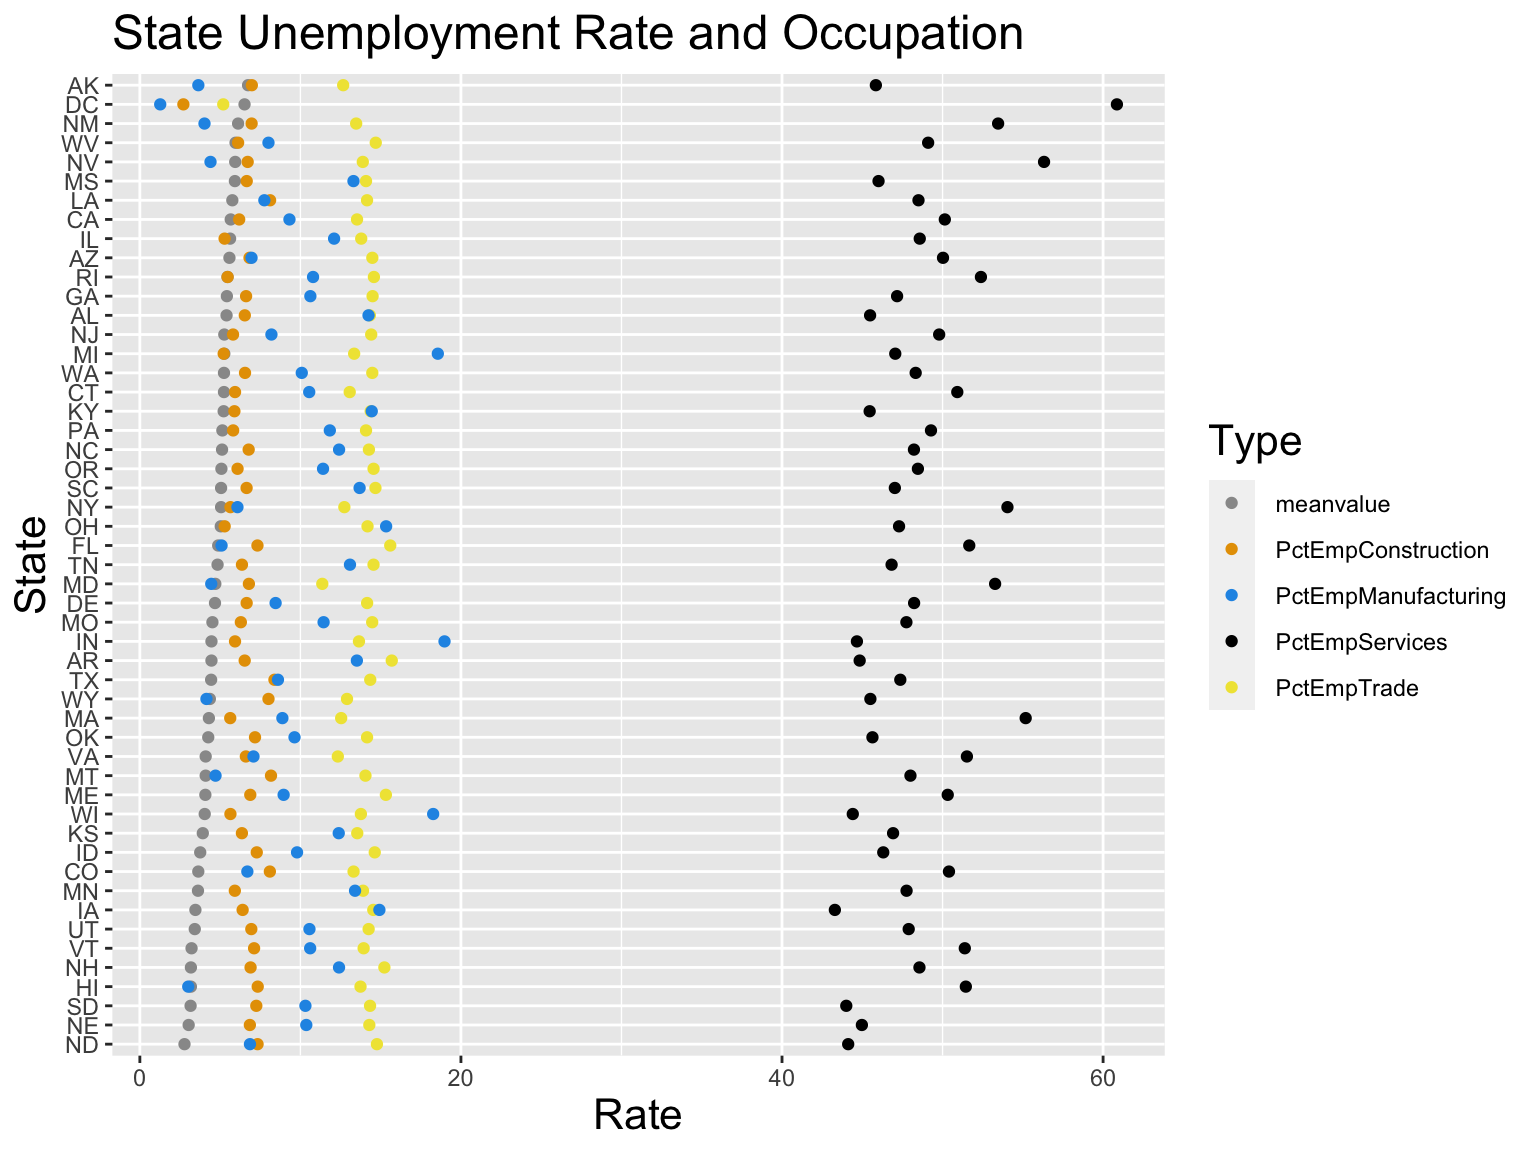
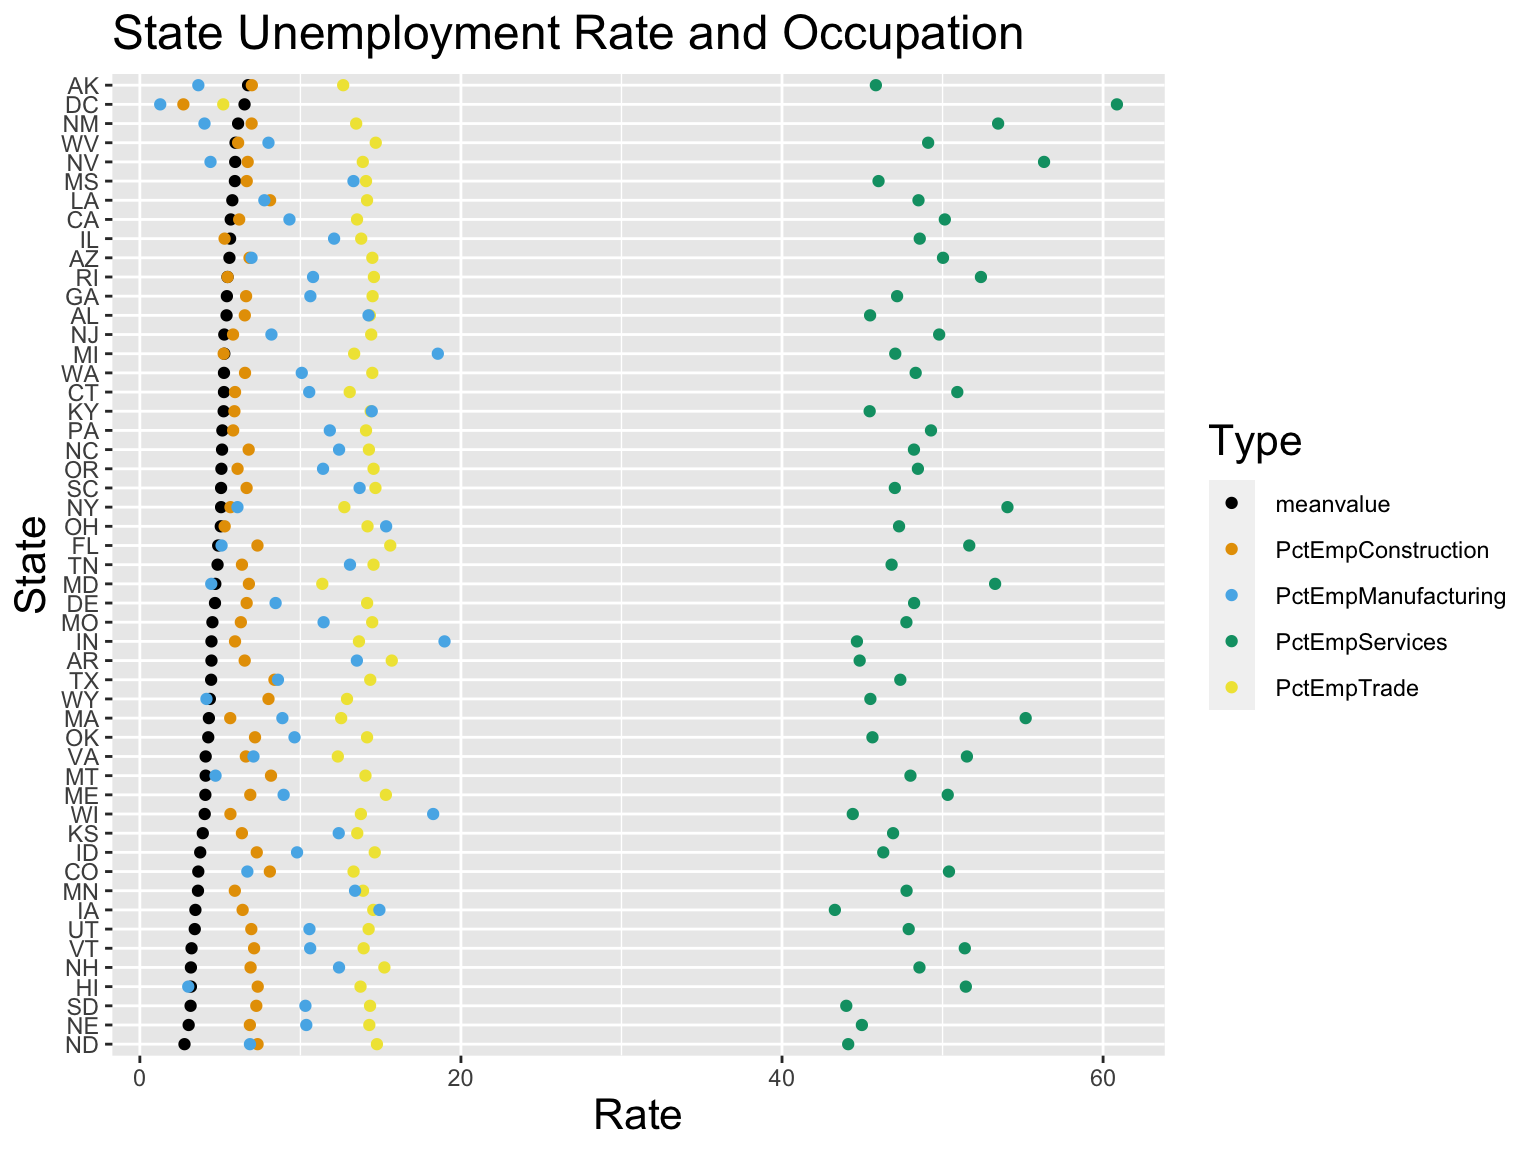
Changed color scale to colorblind friendly colors

diff --git a/docs/results.html b/docs/results.html
@@ -220,7 +220,7 @@ It is not very obvious as which part of the US has higher per capita income; how
 </div>
 <div id="dependency-relation-between-unemployment-rate-and-occupation-industries" class="section level3">
 <h3><span class="header-section-number">5.2.2</span> Dependency relation between Unemployment Rate and Occupation Industries</h3>
-<p><img src="finalproj_files/figure-html/unnamed-chunk-29-1.png" width="1152" /></p>
+<p><img src="finalproj_files/figure-html/unnamed-chunk-29-1.png" width="1344" /></p>
 <p><img src="finalproj_files/figure-html/unnamed-chunk-30-1.png" width="768" /></p>
 <p>We are using this plot to indicate possible dependency relation between unemployment rate and occupation percentage in the labor force of each state. In order to present a more general trend, we decide to use data of each state, not individual county.<br />
 </p>
